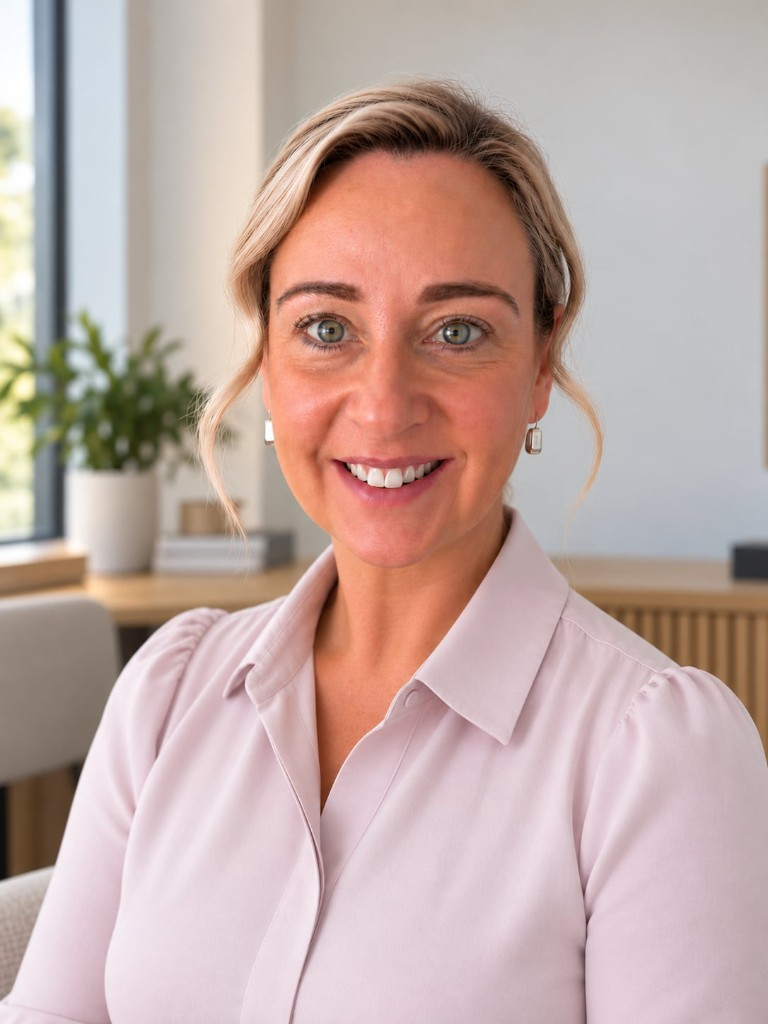
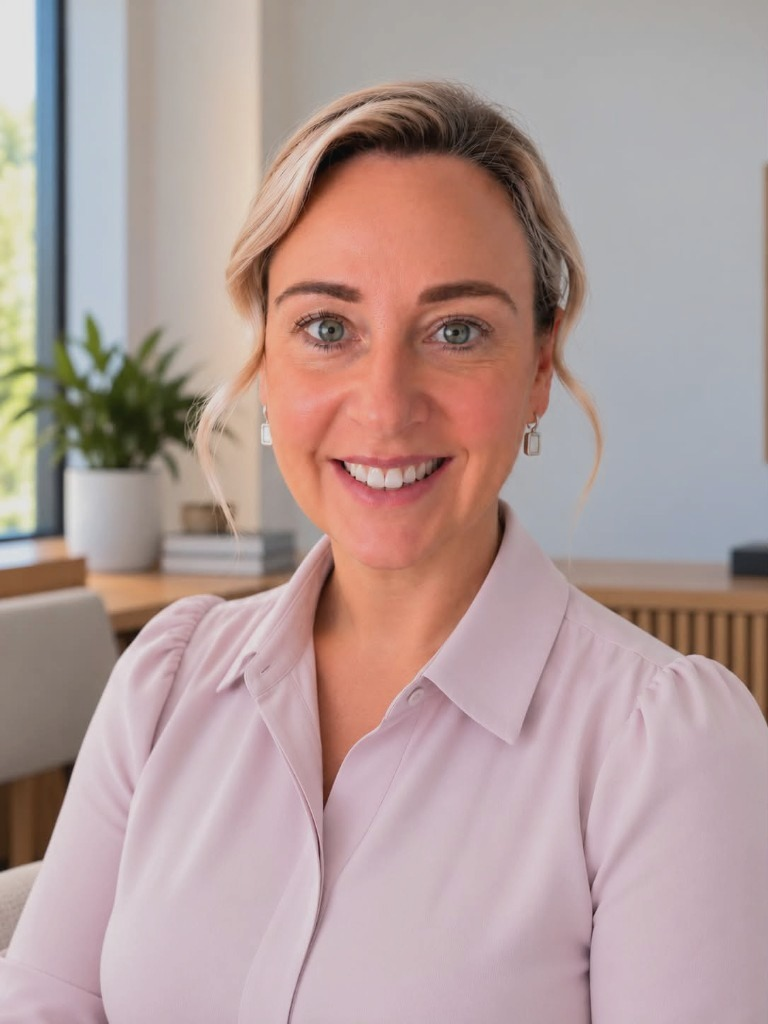
Update couples fees, cancellation notice, and the About portrait.
This matches current session pricing and cancellation rules, and tones down the About Us photo.

diff --git a/fees.html b/fees.html
@@ -39,8 +39,8 @@
         <article class="card">
           <h3>Couples Therapy</h3>
           <p>
-            Initial session is $400<br />(90-minutes) and subsequent sessions
-            are $300 (60-minutes).
+            Initial session fee is $350 (90-minutes) and subsequent session
+            fees are $300 (60-minutes).
           </p>
         </article>
         <article class="card">
@@ -103,12 +103,12 @@
             <strong>Two business days or more notice:</strong> No fee
           </li>
           <li>
-            <strong>One to two business days notice:</strong> 50% of the
-            consultation fee
+            <strong>One business days notice:</strong> 50% of the consultation
+            fee
           </li>
           <li>
-            <strong>Less than one business day's notice:</strong> 100% of the
-            consultation fee
+            <strong>Same day cancellations or missed appointments:</strong> 100%
+            of the consultation fee
           </li>
         </ul>
         <p>

diff --git a/styles.css b/styles.css
@@ -283,9 +283,8 @@ h1 {
   aspect-ratio: 4 / 5;
   object-fit: cover;
   object-position: center top;
-  border-radius: 1rem;
+  border-radius: 0.8rem;
   border: 1px solid var(--border);
-  box-shadow: 0 12px 28px rgba(61, 71, 66, 0.12);
   display: block;
   background: #f4f2ef;
 }
